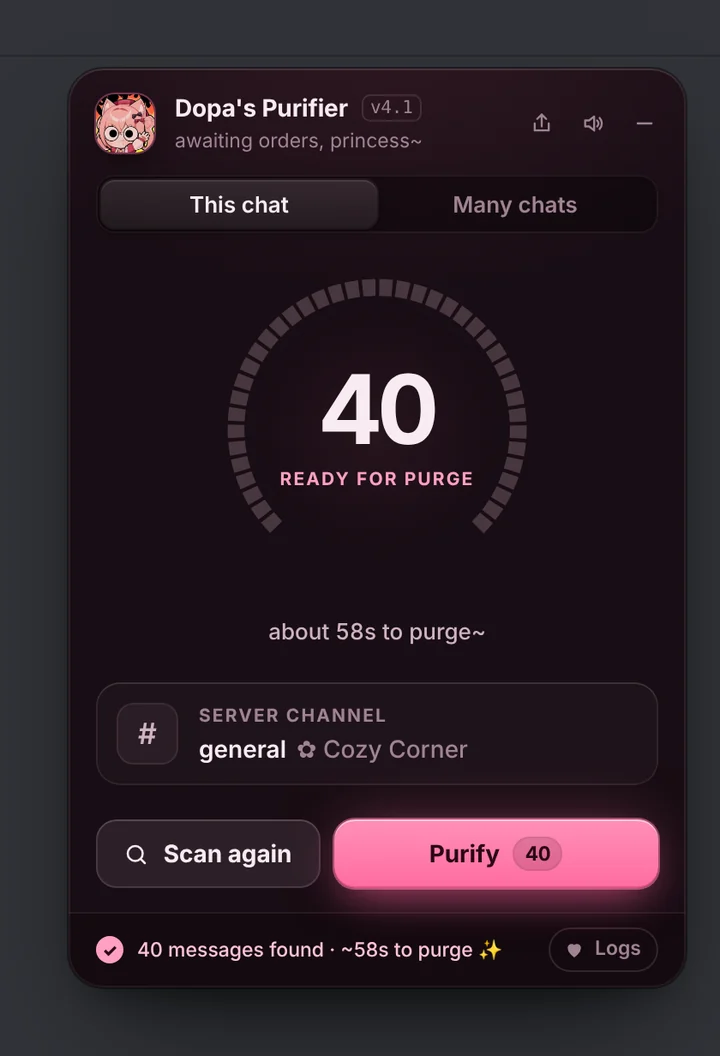
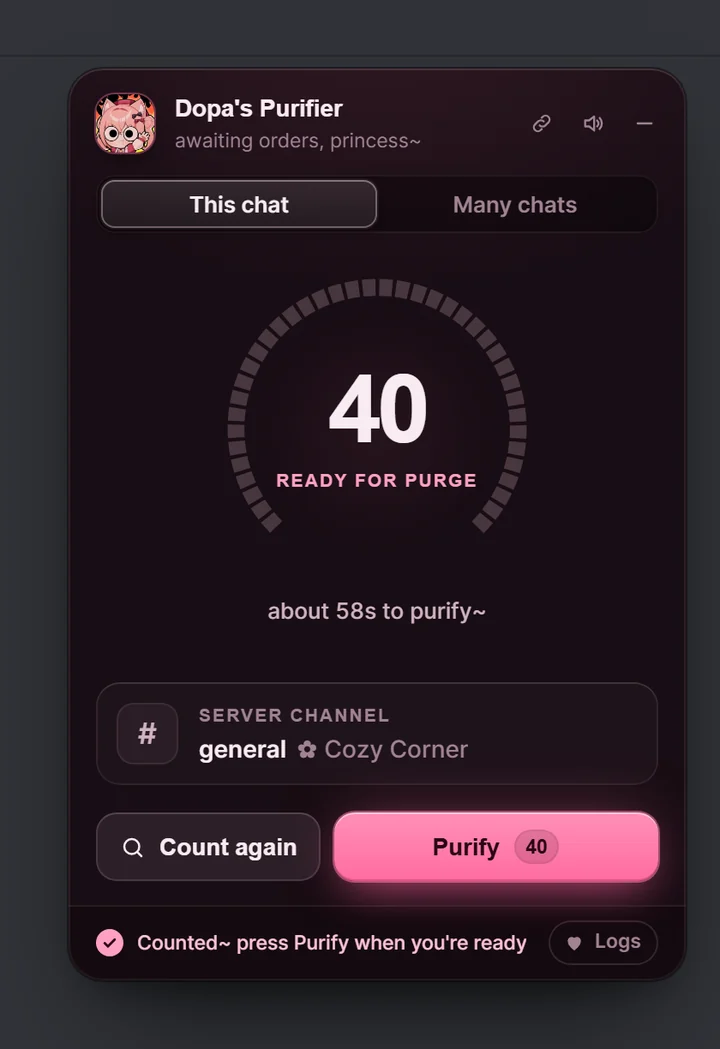
Release 4.2.0: pictures retaken from the merged panel, and the version bump (D62, D63)
- D63: package.json, the userscript's @version and VERSION, the plugin's @version and the install
  page's data-latest read 4.2.0; dist/ and docs/downloads are rebuilt from the merged source.
- D62: docs/img and og.png are retaken at the shipped pace from the 4.2 panel with main's picture
  tool (test/shots.mjs --showcase, then tools/marketing.py): Count, Purify 40, the mid-hold
  "Keep holding~", the friends fold, the gold shield and "Done in 53s ♡".
- Checked on this build: npm run check; e2e 229/229 (216 in the full run, and the 13 it failed
  on the probe hook and timing pass on rerun); site 33/33, one skipped here for python3.

diff --git a/dist/dopas-discord-purifier.user.js b/dist/dopas-discord-purifier.user.js
@@ -1,7 +1,7 @@
 // ==UserScript==
 // @name         Dopa's Discord Purifier
 // @namespace    https://github.com/dopameanie
-// @version      4.1.0
+// @version      4.2.0
 // @description  Cute bulk message purifier for Discord~ ✨ Wipe your own messages from any DM, group or server.
 // @author       Bardo & Dopa
[1 lines of base64/hex data omitted]
@@ -19,7 +19,7 @@
 // ==/UserScript==
 
 (function () {
-  const VERSION = '4.1.0';
+  const VERSION = '4.2.0';
   const SHARE_URL = 'https://codemaker66.github.io/discord-stuff/';
 
   // On the install page, just say hello so it can show "installed ✓".
@@ -172,6 +172,13 @@
     try { return await res.json(); } catch { return null; }
   }
 
+  // Discord's clock, from the Date on its answers. Message ids carry Discord's time, so a run's cut-off
+  // (D64) is taken on it: a PC clock that runs fast would purge what you send after confirming, one that
+  // runs slow would leave what you sent before. The header is whole seconds and read once the answer
+  // has landed, so this never runs ahead of Discord: at worst a message from the last second is left.
+  let discordSkewMs = 0;
+  const discordNow = () => Math.floor(Date.now() + discordSkewMs);
+
   // Stop and Cancel drop a read at once. A DELETE or POST already sent is left to land, so
   // "after this one" and the counts stay true. The timeout bounds both: a dead connection
   // turns into a network error and takes the usual backoff instead of hanging for ever.
@@ -184,6 +191,8 @@
     try {
       // Read the body here too, so a server that stalls mid-answer is covered as well.
       const res = await fetch(url, { ...init, signal: ctl.signal });
+      const served = Date.parse(res.headers.get('date') || '');
+      if (Number.isFinite(served)) discordSkewMs = served - Date.now();
       const body = await res.arrayBuffer();
       const empty = res.status === 204 || res.status === 205 || res.status === 304;
       return new Response(empty ? null : body, { status: res.status, statusText: res.statusText, headers: res.headers });
@@ -713,8 +722,9 @@
       token: getToken(), accountSwitched: false,
       deleted: 0, failed: 0, skipped: 0, gone: 0, failures: [], problems: [], shielded: [],
       startedAt: Date.now(), pausedMs: 0, pausedAt: 0, waitMs: 0, firstAt: 0, pausedAtFirst: 0, waitAtFirst: 0,
-      // Discord's ids begin with the time they were made: anything newer was sent after this confirm.
-      capId: String((BigInt(Date.now()) - 1420070400000n) << 22n),
+      // Discord's ids begin with the time they were made, on Discord's clock: anything newer was sent
+      // after this confirm.
+      capId: String((BigInt(discordNow()) - 1420070400000n) << 22n),
       deleteDelay: TIMING.deleteDelayMs, calm: 0, seen: new Set(), blocked: new Map(),
       total: 0,
       uncounted: 0,
@@ -2628,7 +2638,10 @@
     starting = true;
     const ours = await takeRunLock();
     starting = false;
+    // The panel went away while the lock was asked for (a plugin reload): start nothing, hold nothing.
+    if (destroying) { if (ours) freeRunLock(); settleIdle(); return; }
     if (!ours) {
+      settleIdle();
       // Another tab started first: nothing was sent, and focus goes back to Purify.
       handFocus('[data-act="purify"]');
       setStatus(ELSEWHERE, 'calm');
@@ -4814,10 +4827,12 @@
   // For the BetterDiscord plugin, whose updates wait for a purge to finish: busy() while one runs, and
   // whenIdle() resolves when it ends.
   const idleWaiters = [];
-  const whenIdle = () => (run.active ? new Promise((resolve) => { idleWaiters.push(resolve); }) : Promise.resolve());
-  on('end', () => { for (const resolve of idleWaiters.splice(0)) resolve(); });
+  // A run that ends, or a start that never became one, lets the waiting update ask again.
+  function settleIdle() { for (const resolve of idleWaiters.splice(0)) resolve(); }
+  const whenIdle =() => (run.active || starting ? new Promise((resolve) => { idleWaiters.push(resolve); }) : Promise.resolve());
+  on('end', settleIdle);
 
-  return { start, destroy, busy: () => run.active, whenIdle };
+  return { start, destroy, busy: () => run.active || starting, whenIdle };
 
 
   }

diff --git a/dist/DopasPurifier.plugin.js b/dist/DopasPurifier.plugin.js
@@ -2,12 +2,12 @@
  * @name DopasPurifier
  * @author Bardo & Dopa
  * @description Cute bulk message purifier for Discord~ ✨ Wipe your own messages from any DM, group or server.
- * @version 4.1.0
+ * @version 4.2.0
  * @website https://codemaker66.github.io/discord-stuff/
  * @source https://github.com/codemaker66/discord-stuff
  */
 
-const VERSION = '4.1.0';
+const VERSION = '4.2.0';
 const SHARE_URL = 'https://codemaker66.github.io/discord-stuff/';
 // BetterDiscord only updates plugins from its own store, and this one isn't listed there.
 const PLUGIN_URL = 'https://raw.githubusercontent.com/codemaker66/discord-stuff/main/dist/DopasPurifier.plugin.js';
@@ -213,6 +213,13 @@ function createPurifier() {
     try { return await res.json(); } catch { return null; }
   }
 
+  // Discord's clock, from the Date on its answers. Message ids carry Discord's time, so a run's cut-off
+  // (D64) is taken on it: a PC clock that runs fast would purge what you send after confirming, one that
+  // runs slow would leave what you sent before. The header is whole seconds and read once the answer
+  // has landed, so this never runs ahead of Discord: at worst a message from the last second is left.
+  let discordSkewMs = 0;
+  const discordNow = () => Math.floor(Date.now() + discordSkewMs);
+
   // Stop and Cancel drop a read at once. A DELETE or POST already sent is left to land, so
   // "after this one" and the counts stay true. The timeout bounds both: a dead connection
   // turns into a network error and takes the usual backoff instead of hanging for ever.
@@ -225,6 +232,8 @@ function createPurifier() {
     try {
       // Read the body here too, so a server that stalls mid-answer is covered as well.
       const res = await fetch(url, { ...init, signal: ctl.signal });
+      const served = Date.parse(res.headers.get('date') || '');
+      if (Number.isFinite(served)) discordSkewMs = served - Date.now();
       const body = await res.arrayBuffer();
       const empty = res.status === 204 || res.status === 205 || res.status === 304;
       return new Response(empty ? null : body, { status: res.status, statusText: res.statusText, headers: res.headers });
@@ -754,8 +763,9 @@ function createPurifier() {
       token: getToken(), accountSwitched: false,
       deleted: 0, failed: 0, skipped: 0, gone: 0, failures: [], problems: [], shielded: [],
       startedAt: Date.now(), pausedMs: 0, pausedAt: 0, waitMs: 0, firstAt: 0, pausedAtFirst: 0, waitAtFirst: 0,
-      // Discord's ids begin with the time they were made: anything newer was sent after this confirm.
-      capId: String((BigInt(Date.now()) - 1420070400000n) << 22n),
+      // Discord's ids begin with the time they were made, on Discord's clock: anything newer was sent
+      // after this confirm.
+      capId: String((BigInt(discordNow()) - 1420070400000n) << 22n),
       deleteDelay: TIMING.deleteDelayMs, calm: 0, seen: new Set(), blocked: new Map(),
       total: 0,
       uncounted: 0,
@@ -2669,7 +2679,10 @@ function createPurifier() {
     starting = true;
     const ours = await takeRunLock();
     starting = false;
+    // The panel went away while the lock was asked for (a plugin reload): start nothing, hold nothing.
+    if (destroying) { if (ours) freeRunLock(); settleIdle(); return; }
     if (!ours) {
+      settleIdle();
       // Another tab started first: nothing was sent, and focus goes back to Purify.
       handFocus('[data-act="purify"]');
       setStatus(ELSEWHERE, 'calm');
@@ -4855,10 +4868,12 @@ function createPurifier() {
   // For the BetterDiscord plugin, whose updates wait for a purge to finish: busy() while one runs, and
   // whenIdle() resolves when it ends.
   const idleWaiters = [];
-  const whenIdle = () => (run.active ? new Promise((resolve) => { idleWaiters.push(resolve); }) : Promise.resolve());
-  on('end', () => { for (const resolve of idleWaiters.splice(0)) resolve(); });
+  // A run that ends, or a start that never became one, lets the waiting update ask again.
+  function settleIdle() { for (const resolve of idleWaiters.splice(0)) resolve(); }
+  const whenIdle =() => (run.active || starting ? new Promise((resolve) => { idleWaiters.push(resolve); }) : Promise.resolve());
+  on('end', settleIdle);
 
-  return { start, destroy, busy: () => run.active, whenIdle };
+  return { start, destroy, busy: () => run.active || starting, whenIdle };
 
 
 }

diff --git a/docs/downloads/DopasPurifier.plugin.js b/docs/downloads/DopasPurifier.plugin.js
@@ -2,12 +2,12 @@
  * @name DopasPurifier
  * @author Bardo & Dopa
  * @description Cute bulk message purifier for Discord~ ✨ Wipe your own messages from any DM, group or server.
- * @version 4.1.0
+ * @version 4.2.0
  * @website https://codemaker66.github.io/discord-stuff/
  * @source https://github.com/codemaker66/discord-stuff
  */
 
-const VERSION = '4.1.0';
+const VERSION = '4.2.0';
 const SHARE_URL = 'https://codemaker66.github.io/discord-stuff/';
 // BetterDiscord only updates plugins from its own store, and this one isn't listed there.
 const PLUGIN_URL = 'https://raw.githubusercontent.com/codemaker66/discord-stuff/main/dist/DopasPurifier.plugin.js';
@@ -213,6 +213,13 @@ function createPurifier() {
     try { return await res.json(); } catch { return null; }
   }
 
+  // Discord's clock, from the Date on its answers. Message ids carry Discord's time, so a run's cut-off
+  // (D64) is taken on it: a PC clock that runs fast would purge what you send after confirming, one that
+  // runs slow would leave what you sent before. The header is whole seconds and read once the answer
+  // has landed, so this never runs ahead of Discord: at worst a message from the last second is left.
+  let discordSkewMs = 0;
+  const discordNow = () => Math.floor(Date.now() + discordSkewMs);
+
   // Stop and Cancel drop a read at once. A DELETE or POST already sent is left to land, so
   // "after this one" and the counts stay true. The timeout bounds both: a dead connection
   // turns into a network error and takes the usual backoff instead of hanging for ever.
@@ -225,6 +232,8 @@ function createPurifier() {
     try {
       // Read the body here too, so a server that stalls mid-answer is covered as well.
       const res = await fetch(url, { ...init, signal: ctl.signal });
+      const served = Date.parse(res.headers.get('date') || '');
+      if (Number.isFinite(served)) discordSkewMs = served - Date.now();
       const body = await res.arrayBuffer();
       const empty = res.status === 204 || res.status === 205 || res.status === 304;
       return new Response(empty ? null : body, { status: res.status, statusText: res.statusText, headers: res.headers });
@@ -754,8 +763,9 @@ function createPurifier() {
       token: getToken(), accountSwitched: false,
       deleted: 0, failed: 0, skipped: 0, gone: 0, failures: [], problems: [], shielded: [],
       startedAt: Date.now(), pausedMs: 0, pausedAt: 0, waitMs: 0, firstAt: 0, pausedAtFirst: 0, waitAtFirst: 0,
-      // Discord's ids begin with the time they were made: anything newer was sent after this confirm.
-      capId: String((BigInt(Date.now()) - 1420070400000n) << 22n),
+      // Discord's ids begin with the time they were made, on Discord's clock: anything newer was sent
+      // after this confirm.
+      capId: String((BigInt(discordNow()) - 1420070400000n) << 22n),
       deleteDelay: TIMING.deleteDelayMs, calm: 0, seen: new Set(), blocked: new Map(),
       total: 0,
       uncounted: 0,
@@ -2669,7 +2679,10 @@ function createPurifier() {
     starting = true;
     const ours = await takeRunLock();
     starting = false;
+    // The panel went away while the lock was asked for (a plugin reload): start nothing, hold nothing.
+    if (destroying) { if (ours) freeRunLock(); settleIdle(); return; }
     if (!ours) {
+      settleIdle();
       // Another tab started first: nothing was sent, and focus goes back to Purify.
       handFocus('[data-act="purify"]');
       setStatus(ELSEWHERE, 'calm');
@@ -4855,10 +4868,12 @@ function createPurifier() {
   // For the BetterDiscord plugin, whose updates wait for a purge to finish: busy() while one runs, and
   // whenIdle() resolves when it ends.
   const idleWaiters = [];
-  const whenIdle = () => (run.active ? new Promise((resolve) => { idleWaiters.push(resolve); }) : Promise.resolve());
-  on('end', () => { for (const resolve of idleWaiters.splice(0)) resolve(); });
+  // A run that ends, or a start that never became one, lets the waiting update ask again.
+  function settleIdle() { for (const resolve of idleWaiters.splice(0)) resolve(); }
+  const whenIdle =() => (run.active || starting ? new Promise((resolve) => { idleWaiters.push(resolve); }) : Promise.resolve());
+  on('end', settleIdle);
 
-  return { start, destroy, busy: () => run.active, whenIdle };
+  return { start, destroy, busy: () => run.active || starting, whenIdle };
 
 
 }

diff --git a/docs/index.html b/docs/index.html
@@ -1,5 +1,5 @@
 <!doctype html>
-<html lang="en" data-latest="4.1.0">
+<html lang="en" data-latest="4.2.0">
 <head>
 <meta charset="utf-8">
 <meta name="viewport" content="width=device-width, initial-scale=1">
